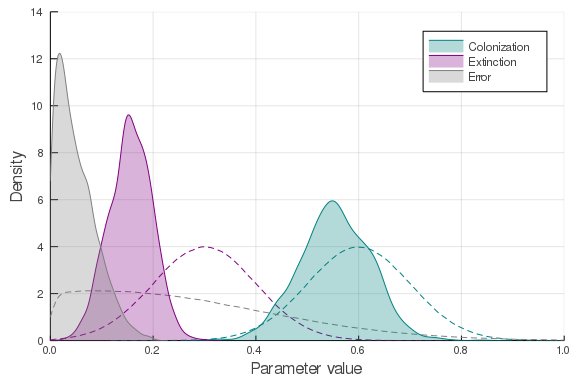
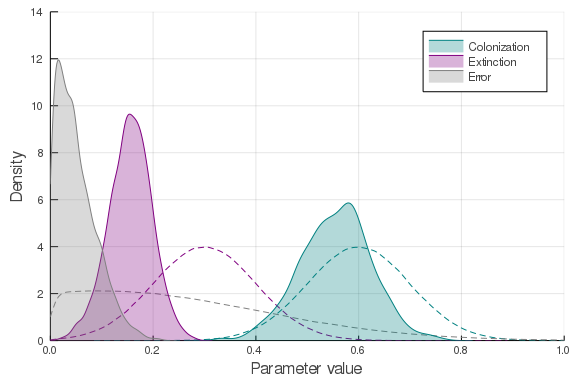
adding the draft flag to all non-finished lessons!

diff --git a/content/capstones/abc.md b/content/capstones/abc.md
@@ -1,7 +1,6 @@
 ---
 title: Approximate Bayesian Computation
 weight: 1
-status: draft
 packages:
   - StatsPlots
   - StatsBase
@@ -14,12 +13,12 @@ concepts:
 
 
 [Approximate Bayesian
-computation](https://en.wikipedia.org/wiki/Approximate_Bayesian_computation),
-or ABC for short, is a very useful heuristic to estimate the posterior
-distribution of model parameters, specifically when the analytical expression
-of the likelihood function is unavailable (or when we can't be bothered
-to figure it out). The theory on how ABC works will not be covered here in
-detail, so reading the previous article is highly recommended.
+computation](https://en.wikipedia.org/wiki/Approximate_Bayesian_computation), or
+ABC for short, is a very useful heuristic to estimate the posterior distribution
+of model parameters, specifically when the analytical expression of the
+likelihood function is unavailable (or when we can't be bothered to figure it
+out). The theory on how ABC works will not be covered here in detail, so reading
+the previous article is highly recommended.
 
 We will rely on a few packages for this example:
 
@@ -40,14 +39,14 @@ through the island, to figure out whether or not *Eurycotis floridana* is
 present or absent. This results in a timeseries, like this:
 
 ````
-Year 1	absent
-Year 2	present
-Year 3	present
-Year 4	present
+Year 1	present
+Year 2	absent
+Year 3	absent
+Year 4	absent
 Year 5	absent
-Year 6	absent
+Year 6	present
 Year 7	absent
-Year 8	present
+Year 8	absent
 Year 9	absent
 Year 10	present
 ````
@@ -114,19 +113,19 @@ island (generic function with 1 method)
 
 
 
-In ABC, one key notion is the idea of "summary statistics", *i.e.* the act
-of compressing the empirical data and model output to something that can be
-meaningfully compared. Here, we will work with two informations, namely the
-rate of transition, and the temporal occupancy. In ABC, the summary statistics
-are *key* in determining the validity of the results. Using too much exposes
-you to the curse of dimensionality, and using too few (or the wrong ones)
-can lead to spurious conclusions. Another few indicators we could have used
-are apparent colonisation events (when the island appeared empty one year,
-then occupied the next), apparent extinction events (when the island appears
-occupied one year, and empty the next), and finally the number of times
-where the sequence occupied/empty/occupied appears. Feel free to try and
-adapt the code after you have been through this lesson once to use these
-and other indicators, and see how the results change. 
+In ABC, one key notion is the idea of "summary statistics", *i.e.* the act of
+compressing the empirical data and model output to something that can be
+meaningfully compared. Here, we will work with two informations, namely the rate
+of transition, and the temporal occupancy. In ABC, the summary statistics are
+*key* in determining the validity of the results. Using too much exposes you to
+the curse of dimensionality, and using too few (or the wrong ones) can lead to
+spurious conclusions. Another few indicators we could have used are apparent
+colonisation events (when the island appeared empty one year, then occupied the
+next), apparent extinction events (when the island appears occupied one year,
+and empty the next), and finally the number of times where the sequence
+occupied/empty/occupied appears. Feel free to try and adapt the code after you
+have been through this lesson once to use these and other indicators, and see
+how the results change.
 
 In any case, here is our function to summarize a sequence of observations:
 
@@ -152,11 +151,11 @@ summary (generic function with 1 method)
 
 
 
-Do you like it? It's OK I guess, but I'm not a big fan. As we discussed in
-the previous paragraph, we may want to use different summary statistics,
-and this would require re-writing this function. This is a good example of
-our code being insufficiently modular: each summary statistic should be its
-own function. Let's correct this.
+Do you like it? It's OK I guess, but I'm not a big fan. As we discussed in the
+previous paragraph, we may want to use different summary statistics, and this
+would require re-writing this function. This is a good example of our code being
+insufficiently modular: each summary statistic should be its own function. Let's
+correct this.
 
 ````julia
 occupancy(t::Vector{Bool}) = sum(t)/length(t)
@@ -181,9 +180,9 @@ transitions (generic function with 1 method)
 
 
 
-We have defined two functions, each of which returns the value of one
-indicator. We can now write a declaration for `summary` that will accept
-the states timeseries, *and* an array of functions to measure the indicators:
+We have defined two functions, each of which returns the value of one indicator.
+We can now write a declaration for `summary` that will accept the states
+timeseries, *and* an array of functions to measure the indicators:
 
 ````julia
 function summary(t::Vector{Bool}, f::Vector{T}) where {T <: Function}
@@ -204,10 +203,9 @@ summary (generic function with 2 methods)
 
 
 
-Is it perfect? No. Is it an improvement over the previous
-implementation? Assuredly, so let's roll with this. We can apply this
-function to a simulation with parameters $(e=0.2, c=0.6, m=0.1)$, and get
-the summary statistics:
+Is it perfect? No. Is it an improvement over the previous implementation?
+Assuredly, so let's roll with this. We can apply this function to a simulation
+with parameters $(e=0.2, c=0.6, m=0.1)$, and get the summary statistics:
 
 ````julia
 summary(
@@ -219,8 +217,8 @@ summary(
 
 ````
 2-element Array{Float64,1}:
- 0.69              
- 0.3316582914572864
+ 0.65              
+ 0.3969849246231156
 ````
 
 
@@ -242,9 +240,9 @@ empirical_data[17:20] .= true
 
 
 
-Your biologist colleague would be very happy if you could get to an estimate
-of the parameters that govern the presence of this insect on the island. This
-is an easy enough task to do with ABC.
+Your biologist colleague would be very happy if you could get to an estimate of
+the parameters that govern the presence of this insect on the island. This is an
+easy enough task to do with ABC.
 
 We can measure the statistics of this timeseries:
 
@@ -263,12 +261,12 @@ summary(empirical_data)
 
 
 
-And just like this, we are ready to start the ABC process. We will start
-by deciding on priors for all three parameters. We could model them in a
-variety of ways, including β laws, and truncated distributions. Let's
-go with the later, as it is a neat illustration of the `Distributions`
-package. We picked a value of colonisation higher than extinction (as the
-species seems to persist), and a relatively low rate of false absences.
+And just like this, we are ready to start the ABC process. We will start by
+deciding on priors for all three parameters. We could model them in a variety of
+ways, including β laws, and truncated distributions. Let's go with the later, as
+it is a neat illustration of the `Distributions` package. We picked a value of
+colonisation higher than extinction (as the species seems to persist), and a
+relatively low rate of false absences.
 
 ````julia
 Dc = Truncated(Normal(0.6, 0.1), 0.0, 1.0)
@@ -280,20 +278,19 @@ Dm = Truncated(Normal(0.1, 0.3), 0.0, 1.0)
 
 
 
-In this algorithm (as with any other Bayesian application), priors
-are *determinant* in the success of the process; indeed, the posterior
-distribution will be a subset of the prior, because (as we discuss below)
-ABC relies on *rejection* sampling, *i.e.* it winnows parameter values that
-make little sense from the original distribution. Picking a prior which
-is too narrow will prevent the algorithm from converging onto the correct
-posterior. Conversely, picking a prior that is too flat (let's say a uniform
-distribution that goes from negative infinity to positive infinity) means
-that the time to convergence will explode.
+In this algorithm (as with any other Bayesian application), priors are
+*determinant* in the success of the process; indeed, the posterior distribution
+will be a subset of the prior, because (as we discuss below) ABC relies on
+*rejection* sampling, *i.e.* it winnows parameter values that make little sense
+from the original distribution. Picking a prior which is too narrow will prevent
+the algorithm from converging onto the correct posterior. Conversely, picking a
+prior that is too flat (let's say a uniform distribution that goes from negative
+infinity to positive infinity) means that the time to convergence will explode.
 
 We will generate 10⁶ samples using our simulation model, and get the summary
-statistics for all of them. Note that the simulations run for 200 timesteps,
-as opposed to 20 for the empirical data. This is perfectly fine, because ABC
-works on summary statistics. An interesting exercise is to change the number of
+statistics for all of them. Note that the simulations run for 200 timesteps, as
+opposed to 20 for the empirical data. This is perfectly fine, because ABC works
+on summary statistics. An interesting exercise is to change the number of
 timesteps in the simulations, and see if/how the posterior distributions react.
 
 ````julia
@@ -308,10 +305,12 @@ simulated_results = summary.(map(i -> island(Se[i], Sc[i], Sm[i]), 1:N))
 
 
 
-{{< callout opinion >}}ABC is an excellent exercise for parallel computing!
-Because the model runs are independant, this is an "embarrassingly parallel"
-problem. After reading the [parallel computing](/primers/parallelcomputing/)
-primer, you may want to try it out on this problem.{{< /callout >}}
+{{< callout opinion >}}
+ABC is an excellent exercise for parallel computing! Because the model runs are
+independant, this is an "embarrassingly parallel" problem. After reading the
+[parallel computing](/primers/parallelcomputing/) primer, you may want to try it
+out on this problem.
+{{< /callout >}}
 
 We can now measure the distance between these simulated results and the
 empirical results:
@@ -336,15 +335,15 @@ yaxis!("Density", (0, 4))
 
 
 The actual ABC step is to *reject* some of the samples from them prior
-distribution, to only select the parameters combinations that produce
-results *close* to the empirical data. This is done by setting a threshold,
-and distances *above* this threshold will be rejected (this is why the choice
-of a good prior distribution is crucial). In this case, we picked a threshold
-value of $\theta = 0.02$. Why? Well, for the same reason we idolize $p \le
-0.05$: "dunno, it looks fine I guess?". You are, once again, encouraged to
-change this value, and the density of distances presented in the previous
-plot should help you decide which values are too large or too small; and as
-always, you can increase the number of samples if you want to be very strict.
+distribution, to only select the parameters combinations that produce results
+*close* to the empirical data. This is done by setting a threshold, and
+distances *above* this threshold will be rejected (this is why the choice of a
+good prior distribution is crucial). In this case, we picked a threshold value
+of $\theta = 0.02$. Why? Well, for the same reason we idolize $p \le 0.05$:
+"dunno, it looks fine I guess?". You are, once again, encouraged to change this
+value, and the density of distances presented in the previous plot should help
+you decide which values are too large or too small; and as always, you can
+increase the number of samples if you want to be very strict.
 
 ````julia
 θ = 0.02
@@ -355,11 +354,13 @@ posterior = findall(distances.<θ)
 
 
 
-{{< callout information >}}Another approach to rejection sampling would
-be to keep generating samples until the sample size of the posterior has
-reached a certain threshold. Both solutions are valid, but for the sake of
-illustration, we went with the one that was simpler to implement. Feel free
-to work on other rejection samplers as a programming exercise.{{< /callout >}}
+{{< callout information >}}
+Another approach to rejection sampling would be to keep generating samples until
+the sample size of the posterior has reached a certain threshold. Both solutions
+are valid, but for the sake of illustration, we went with the one that was
+simpler to implement. Feel free to work on other rejection samplers as a
+programming exercise.
+{{< /callout >}}
 
 ````julia
 density(Sc, c=:teal, ls=:dash, lab="")
@@ -382,13 +383,13 @@ To summarize, we can now extract the values of the different parameters:
 
 |     | meaning                |                                     mean |                      standard deviation |
 |:---:|:-----------------------|-----------------------------------------:|----------------------------------------:|
-| $c$ | Colonization rate      | 0.554 | 0.068 |
-| $e$ | Extinction rate        | 0.156 | 0.042 |
+| $c$ | Colonization rate      | 0.555 | 0.069 |
+| $e$ | Extinction rate        | 0.155 | 0.042 |
 | $m$ | Measurement error rate | 0.05 | 0.039 |
 
 Done! One of the strength of ABC is that we can now *generate* datasets, using
 our original model for simulation. And because we know the measurement error
 rate, we can also correct these datasets to describe the data *generation*
 process (the actual presence/absence of the species) as opposed to the data
-*observation* process (measuring the presence/absence and being sometimes
-wrong about it).
+*observation* process (measuring the presence/absence and being sometimes wrong
+about it).

diff --git a/content/primers/indexing.md b/content/primers/indexing.md
@@ -1,0 +1,36 @@
+---
+title: Indexing and arrays dimensions
+slug: indexing
+layout: page
+concepts: [arrays, indexing, slices]
+weight: 1
+---
+
+The overwhelming majority of data we will need to manipulate will be stored in
+vectors, or matrices, or other types of multi-dimensional structures.
+
+````julia
+for r in rand(10)
+  r ≥ 1/3 || continue
+  println(round(r; digits=2))
+end
+````
+
+
+````
+0.47
+0.45
+0.8
+0.73
+0.58
+0.69
+0.57
+````
+
+
+
+
+
+In short, `continue` will *skip ahead* to the next element in the iteration.
+This can be very important to avoid performing operations on objects that are
+not relevant.

diff --git a/content/primers/parallelcomputing.md b/content/primers/parallelcomputing.md
@@ -3,6 +3,7 @@ title: Parallel computing
 slug: parallelcomputing
 layout: page
 status: construction
+draft: true
 concepts:
   - optimization
   - parallel computing
@@ -30,5 +31,3 @@ addprocs(2)
  14
  15
 ````
-
-

diff --git a/content/primers/optimization.md b/content/primers/optimization.md
@@ -3,6 +3,7 @@ title: Optimization
 slug: optimization
 layout: page
 status: construction
+draft: true
 concepts:
   - optimization
   - profiling
